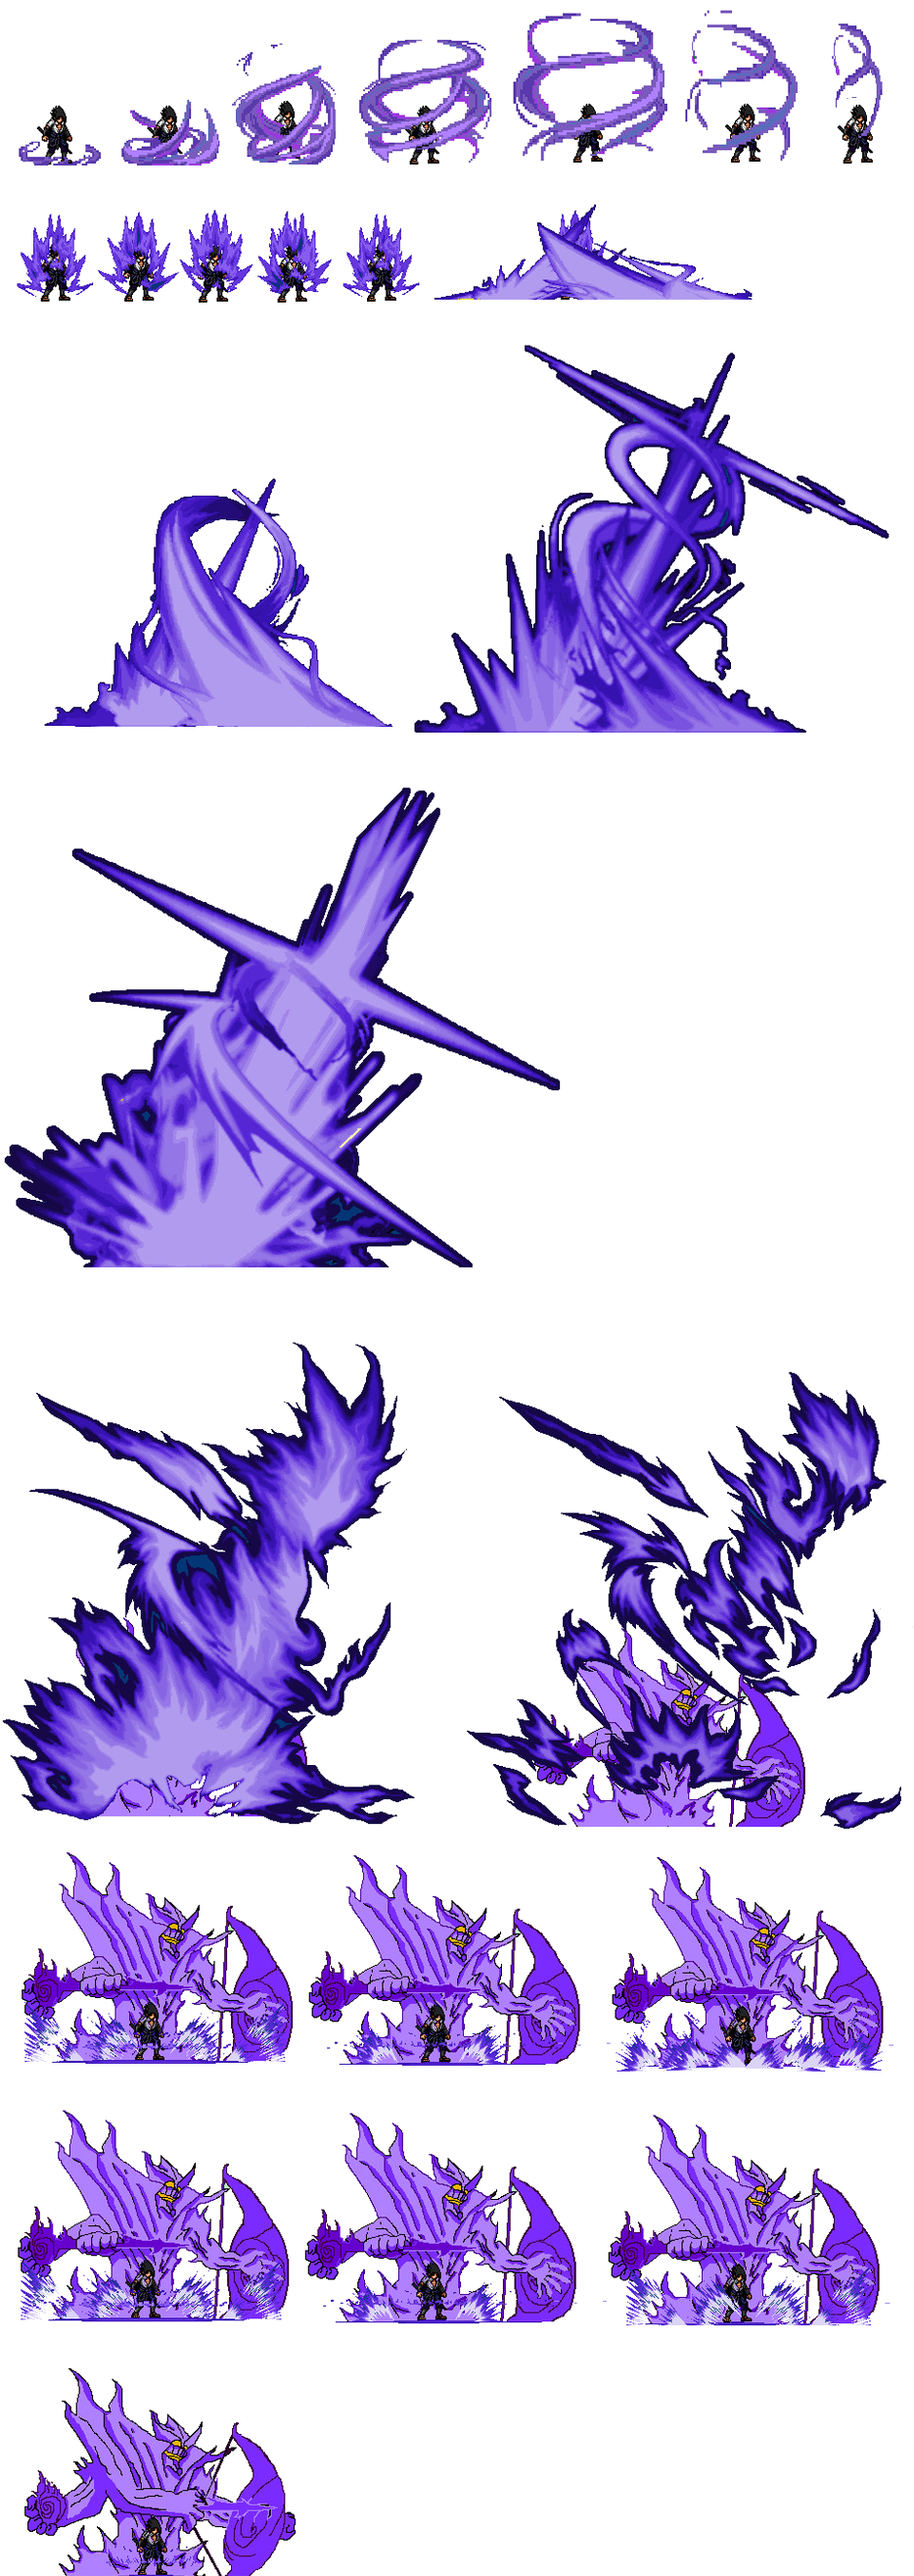
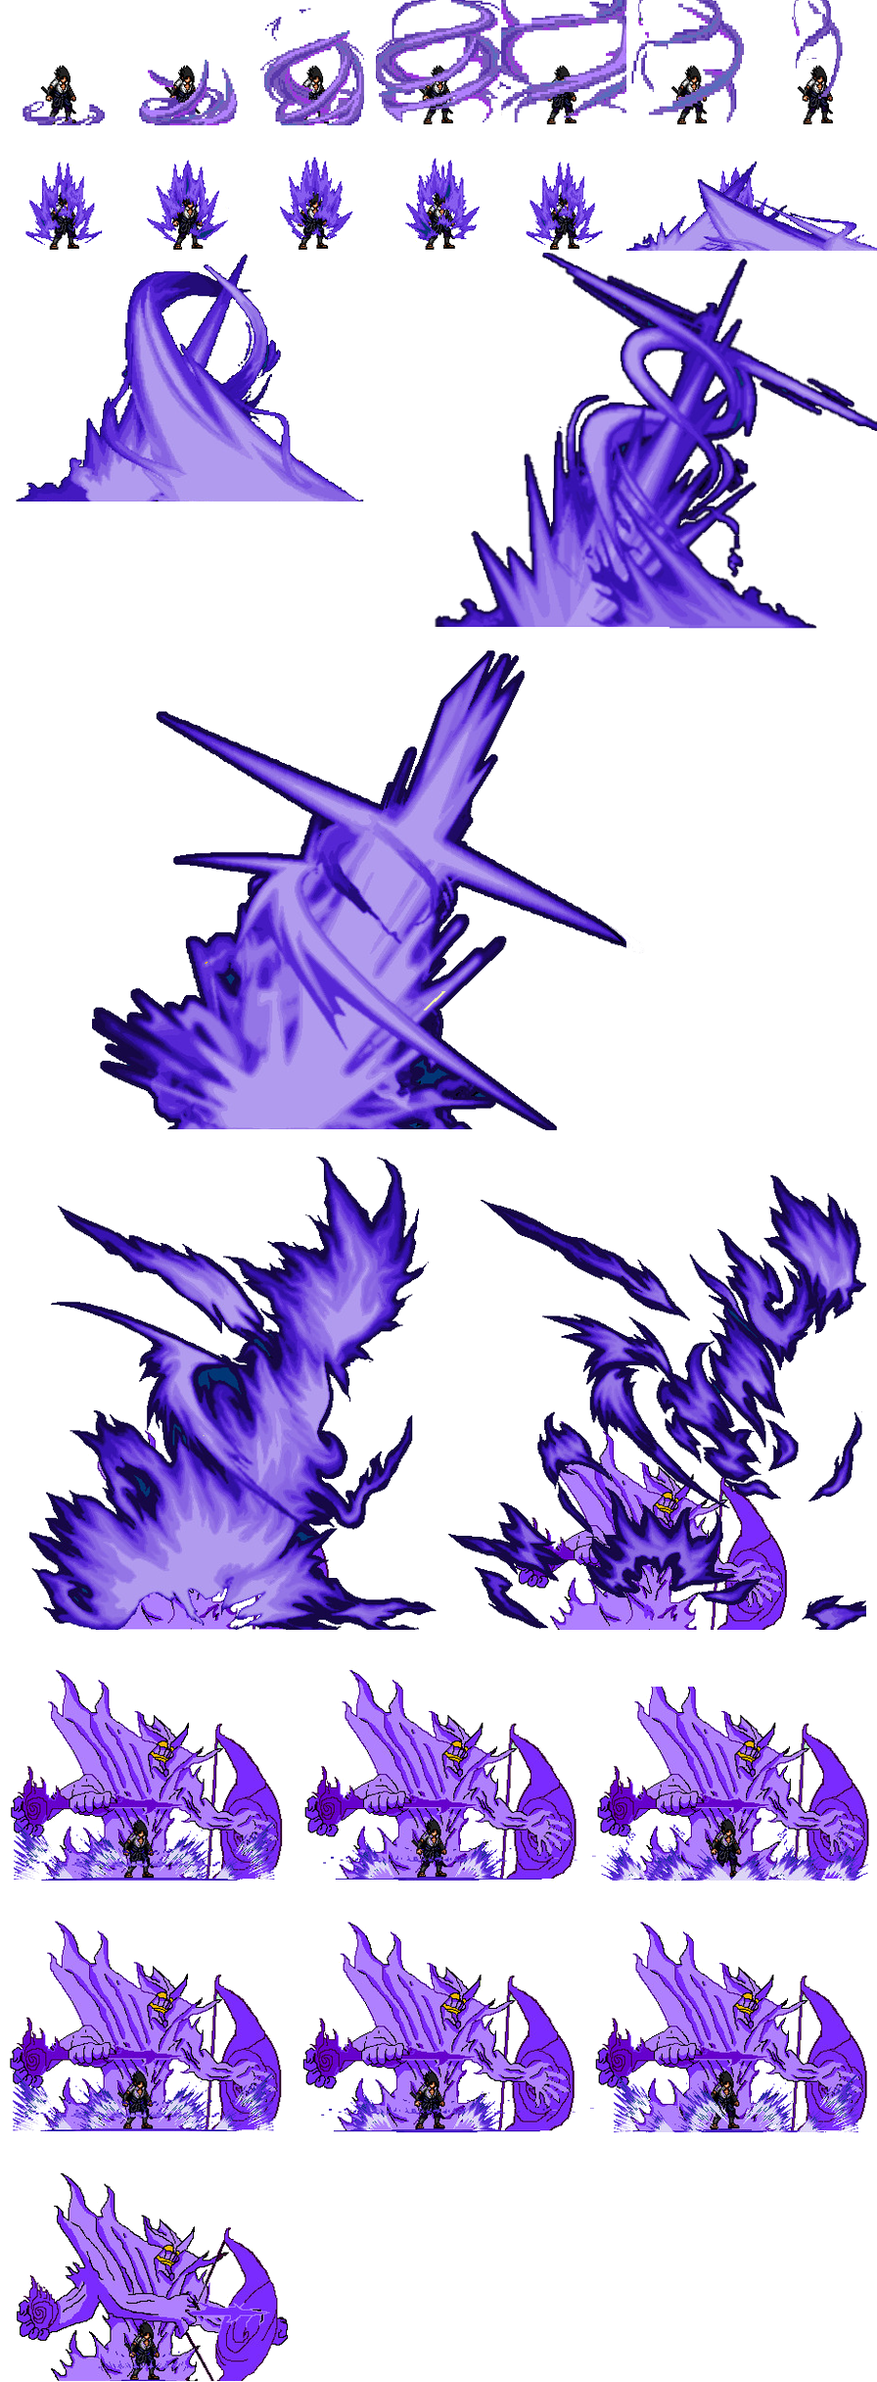
susano fixed

diff --git a/progetto/src/scenes/Level1.java b/progetto/src/scenes/Level1.java
@@ -37,7 +37,7 @@ public class Level1 extends GameScene implements SceneMethods{
     private Tile selectedTile;
     private int mouseX,mouseY;
     
-    private int aniTick,aniIndex, aniSpeed = 30;
+    private int aniTick,aniIndex, aniSpeed = 18;
     private int assex=100;
     
     
@@ -101,30 +101,29 @@ public class Level1 extends GameScene implements SceneMethods{
      private void loadSusano() {
         susano=new BufferedImage[8][7];
         for (int i = 0; i < 7; i++) {
-            susano[0][i] = susanoall.getSubimage(114*i, 0, 114, 171);        
+            susano[0][i] = susanoall.getSubimage(128*i, 0, 128, 128);        
         }
         for (int i = 0; i < 6; i++) {
             if(i!=5){
-                susano[1][i] = susanoall.getSubimage(97*i, 171, 97, 137);      
+                susano[1][i] = susanoall.getSubimage(128*i, 128, 128, 128);      
             }else{
-                susano[1][5] = susanoall.getSubimage(97*i, 171, 97*4, 137);      
+                susano[1][5] = susanoall.getSubimage(128*i, 128, 128*2, 128);      
             }       
         }
+        susano[2][0] = susanoall.getSubimage(0, 256, 128*3, 128*2);         
+        susano[2][1] = susanoall.getSubimage(128*3, 256, 128*4, 128*3);
+        susano[3][0] = susanoall.getSubimage(0, 128*5, 128*5, 128*4);       
         for (int i = 0; i < 2; i++) {
-              susano[2][i] = susanoall.getSubimage(417*i, 308, 417, 440);         
-        }  
-        susano[3][0] = susanoall.getSubimage(0, 748, 608, 548);       
-        for (int i = 0; i < 2; i++) {
-              susano[4][i] = susanoall.getSubimage(467*i, 1296, 467, 574);         
+              susano[4][i] = susanoall.getSubimage(448*i, 128*9+3, 448, 128*4);         
         }
         for (int i = 0; i < 3; i++) {
-              susano[5][i] = susanoall.getSubimage(311*i, 1870, 311, 253);         
+              susano[5][i] = susanoall.getSubimage(298*i, 128*13, 298, 128*2);         
         }
         for (int i = 0; i < 3; i++) {
-              susano[6][i] = susanoall.getSubimage(311*i, 2123, 311, 253);         
+              susano[6][i] = susanoall.getSubimage(298*i, 128*15, 298, 128*2);         
         }
         for (int i = 0; i < 3; i++) {
-              susano[7][i] = susanoall.getSubimage(311*i, 2376, 311, 253);         
+              susano[7][i] = susanoall.getSubimage(298*i, 128*17, 298, 128*2);         
         }
     }
     private void updateAnimationTick() {
@@ -190,37 +189,33 @@ public class Level1 extends GameScene implements SceneMethods{
         //////////////
         int susanoX=600;
         int susanoY=600;
+        int dim=128;
         switch(susanoRow){
             case 0:
-                    g.drawImage(susano[0][susanoIndex[0]], susanoX-114/2, susanoY-171, 114, 171, null);
+                    g.drawImage(susano[0][susanoIndex[0]], susanoX-dim/2, susanoY-dim, dim, dim, null);
                 break;
             case 1:
-                    if(aniIndex!=5){
-                    g.drawImage(susano[1][susanoIndex[1]], susanoX-97/2, susanoY-137, 97, 137, null);    
+                    if(susanoIndex[1]!=5){
+                    g.drawImage(susano[1][susanoIndex[1]], susanoX-dim/2, susanoY-dim, dim, dim, null);    
                      }else{
-                    g.drawImage(susano[1][5], susanoX-110, susanoY-137, 97*4, 137, null);    
+                    g.drawImage(susano[1][5], susanoX-dim, susanoY-dim, dim*2, dim, null);    
                     } 
                 break;
             case 2:
-                g.drawImage(susano[2][susanoIndex[2]], susanoX-417/2, susanoY-440, 417, 440, null);
+                if(susanoIndex[2]==0){
+                    g.drawImage(susano[2][susanoIndex[2]], susanoX-dim*3/2, susanoY-dim*2, dim*3, dim*2, null);
+                }else{
+                    g.drawImage(susano[2][susanoIndex[2]], susanoX-dim*2, susanoY-dim*3, dim*4, dim*3, null);
+                }  
                 break;
             case 3:
-                g.drawImage(susano[3][susanoIndex[3]], susanoX-608/2, susanoY-548, 608, 548, null);
+                g.drawImage(susano[3][susanoIndex[3]], susanoX-dim*5/2, susanoY-dim*4, dim*5, dim*4, null);
                 break;
             case 4:
-                g.drawImage(susano[4][susanoIndex[4]], susanoX-467/2, susanoY-574, 467, 574, null);
-                break;
-            case 5:
-                g.drawImage(susano[5][susanoIndex[5]], susanoX-311/2, susanoY-253, 311, 253, null);
-                break;
-            case 6:
-                g.drawImage(susano[6][susanoIndex[6]], susanoX-311/2, susanoY-253, 311, 253, null);
-                break;
-            case 7:
-                g.drawImage(susano[7][susanoIndex[7]], susanoX-311/2, susanoY-253, 311, 253, null);
+                g.drawImage(susano[4][susanoIndex[4]], susanoX-((int)(dim*3.5))/2, susanoY-dim*4,(int)(dim*3.5), dim*4, null);
                 break;
             default:
-                 g.drawImage(naruto[aniIndex], susanoX, susanoY, 134, 134, null);
+                g.drawImage(susano[susanoRow][susanoIndex[susanoRow]], susanoX-((int)(dim*2.32))/2, susanoY-dim*2, (int)(dim*2.32), dim*2, null);
                 break;
         }
         //////////////
